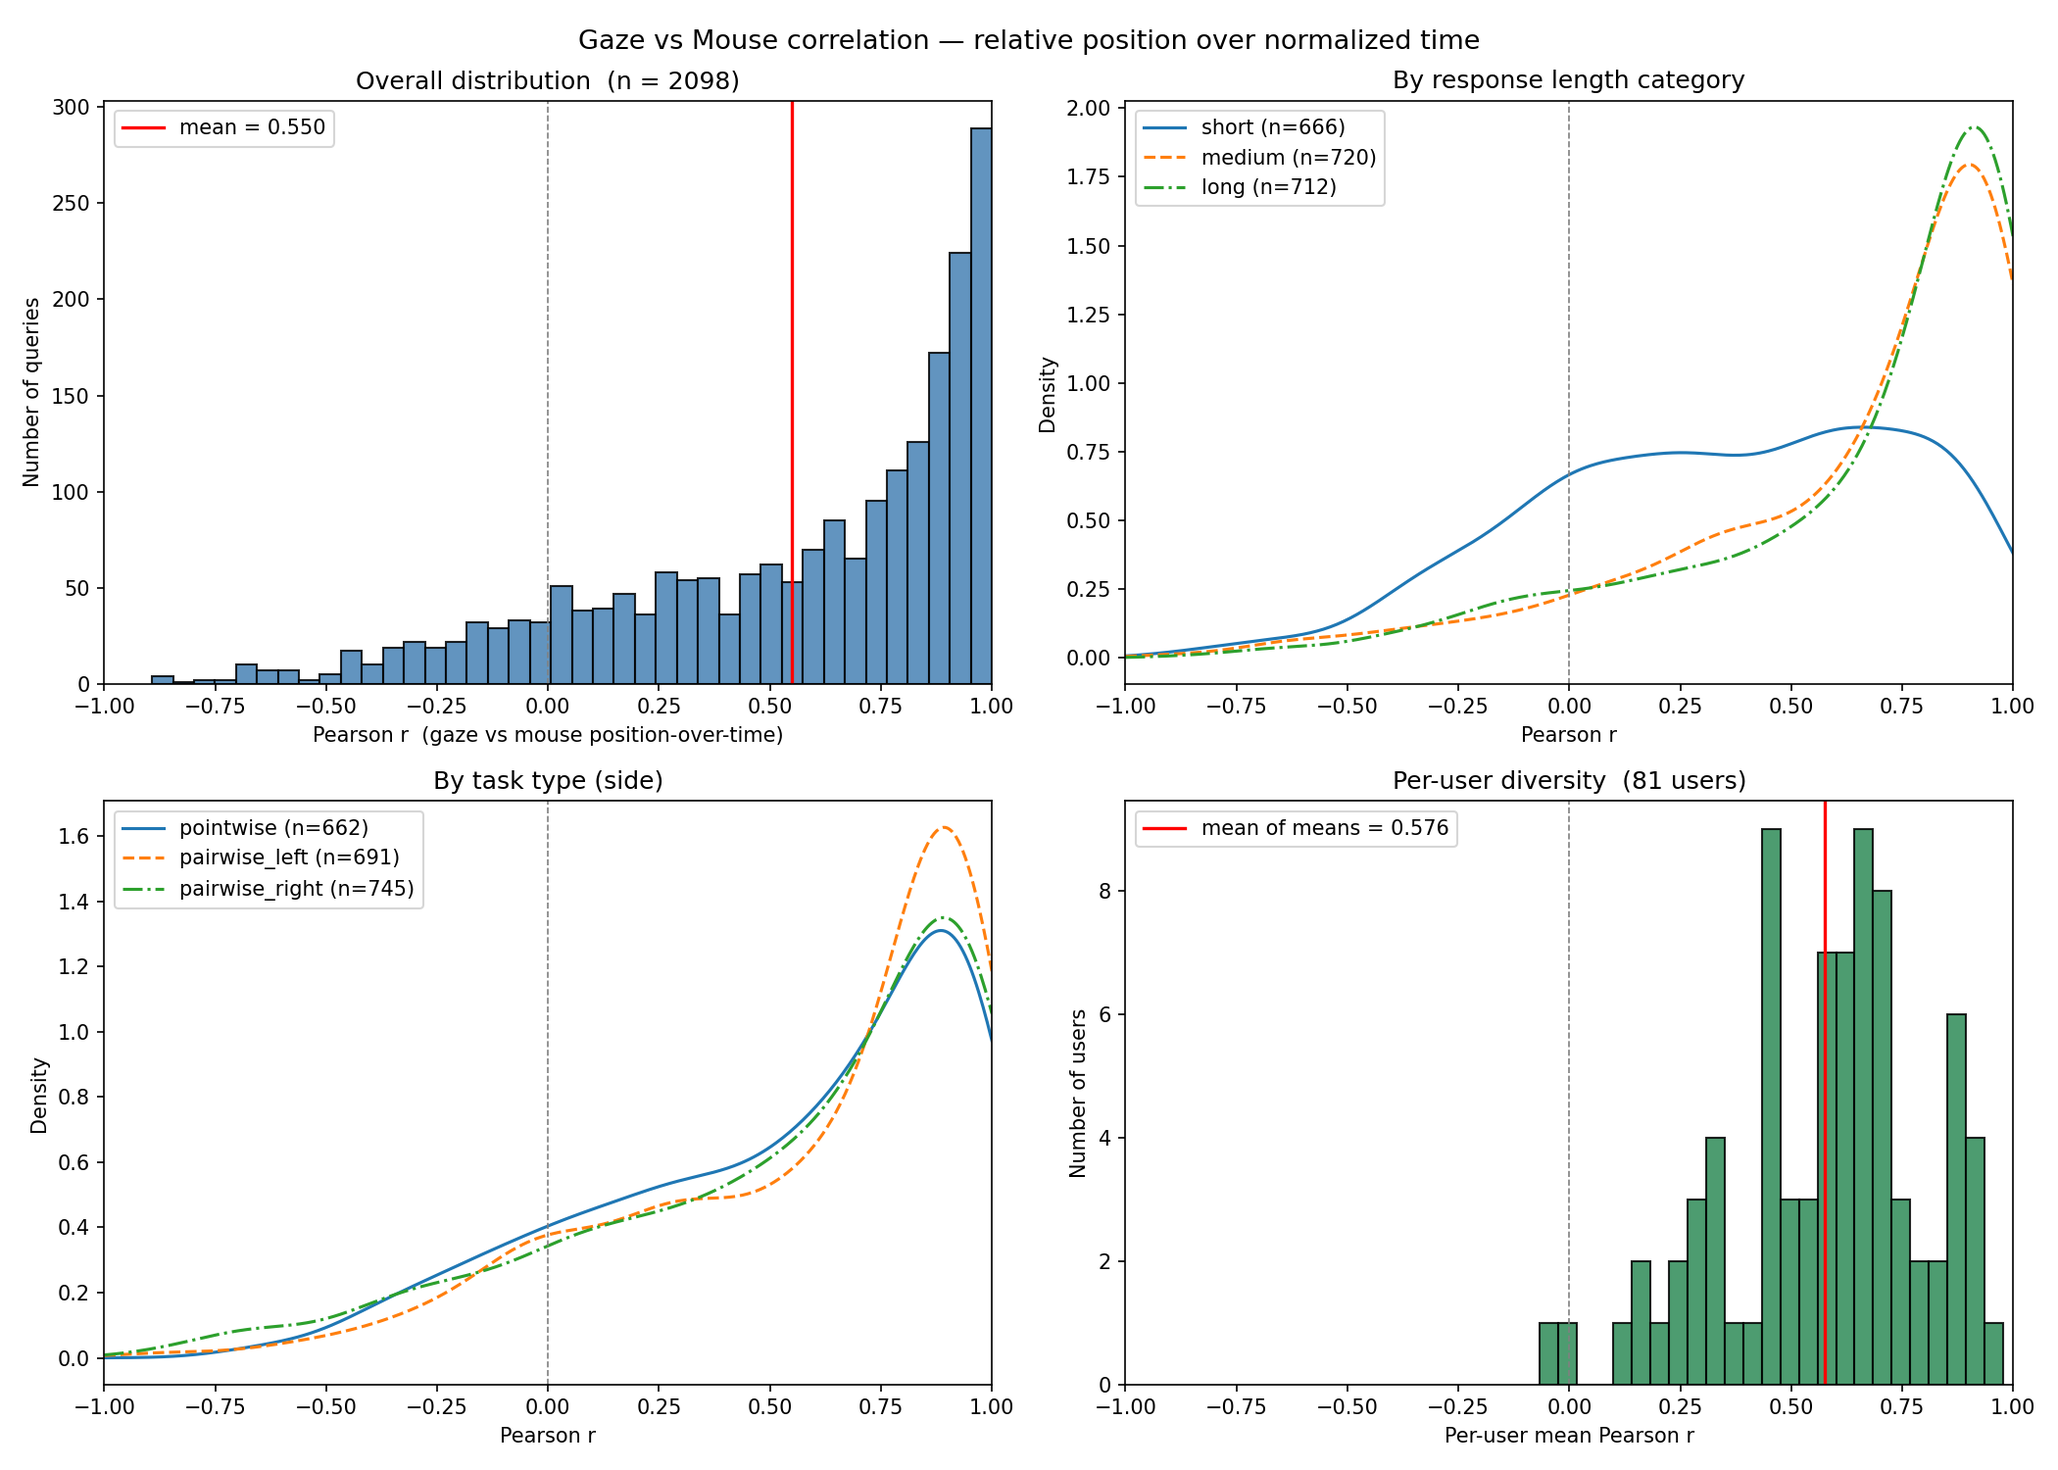
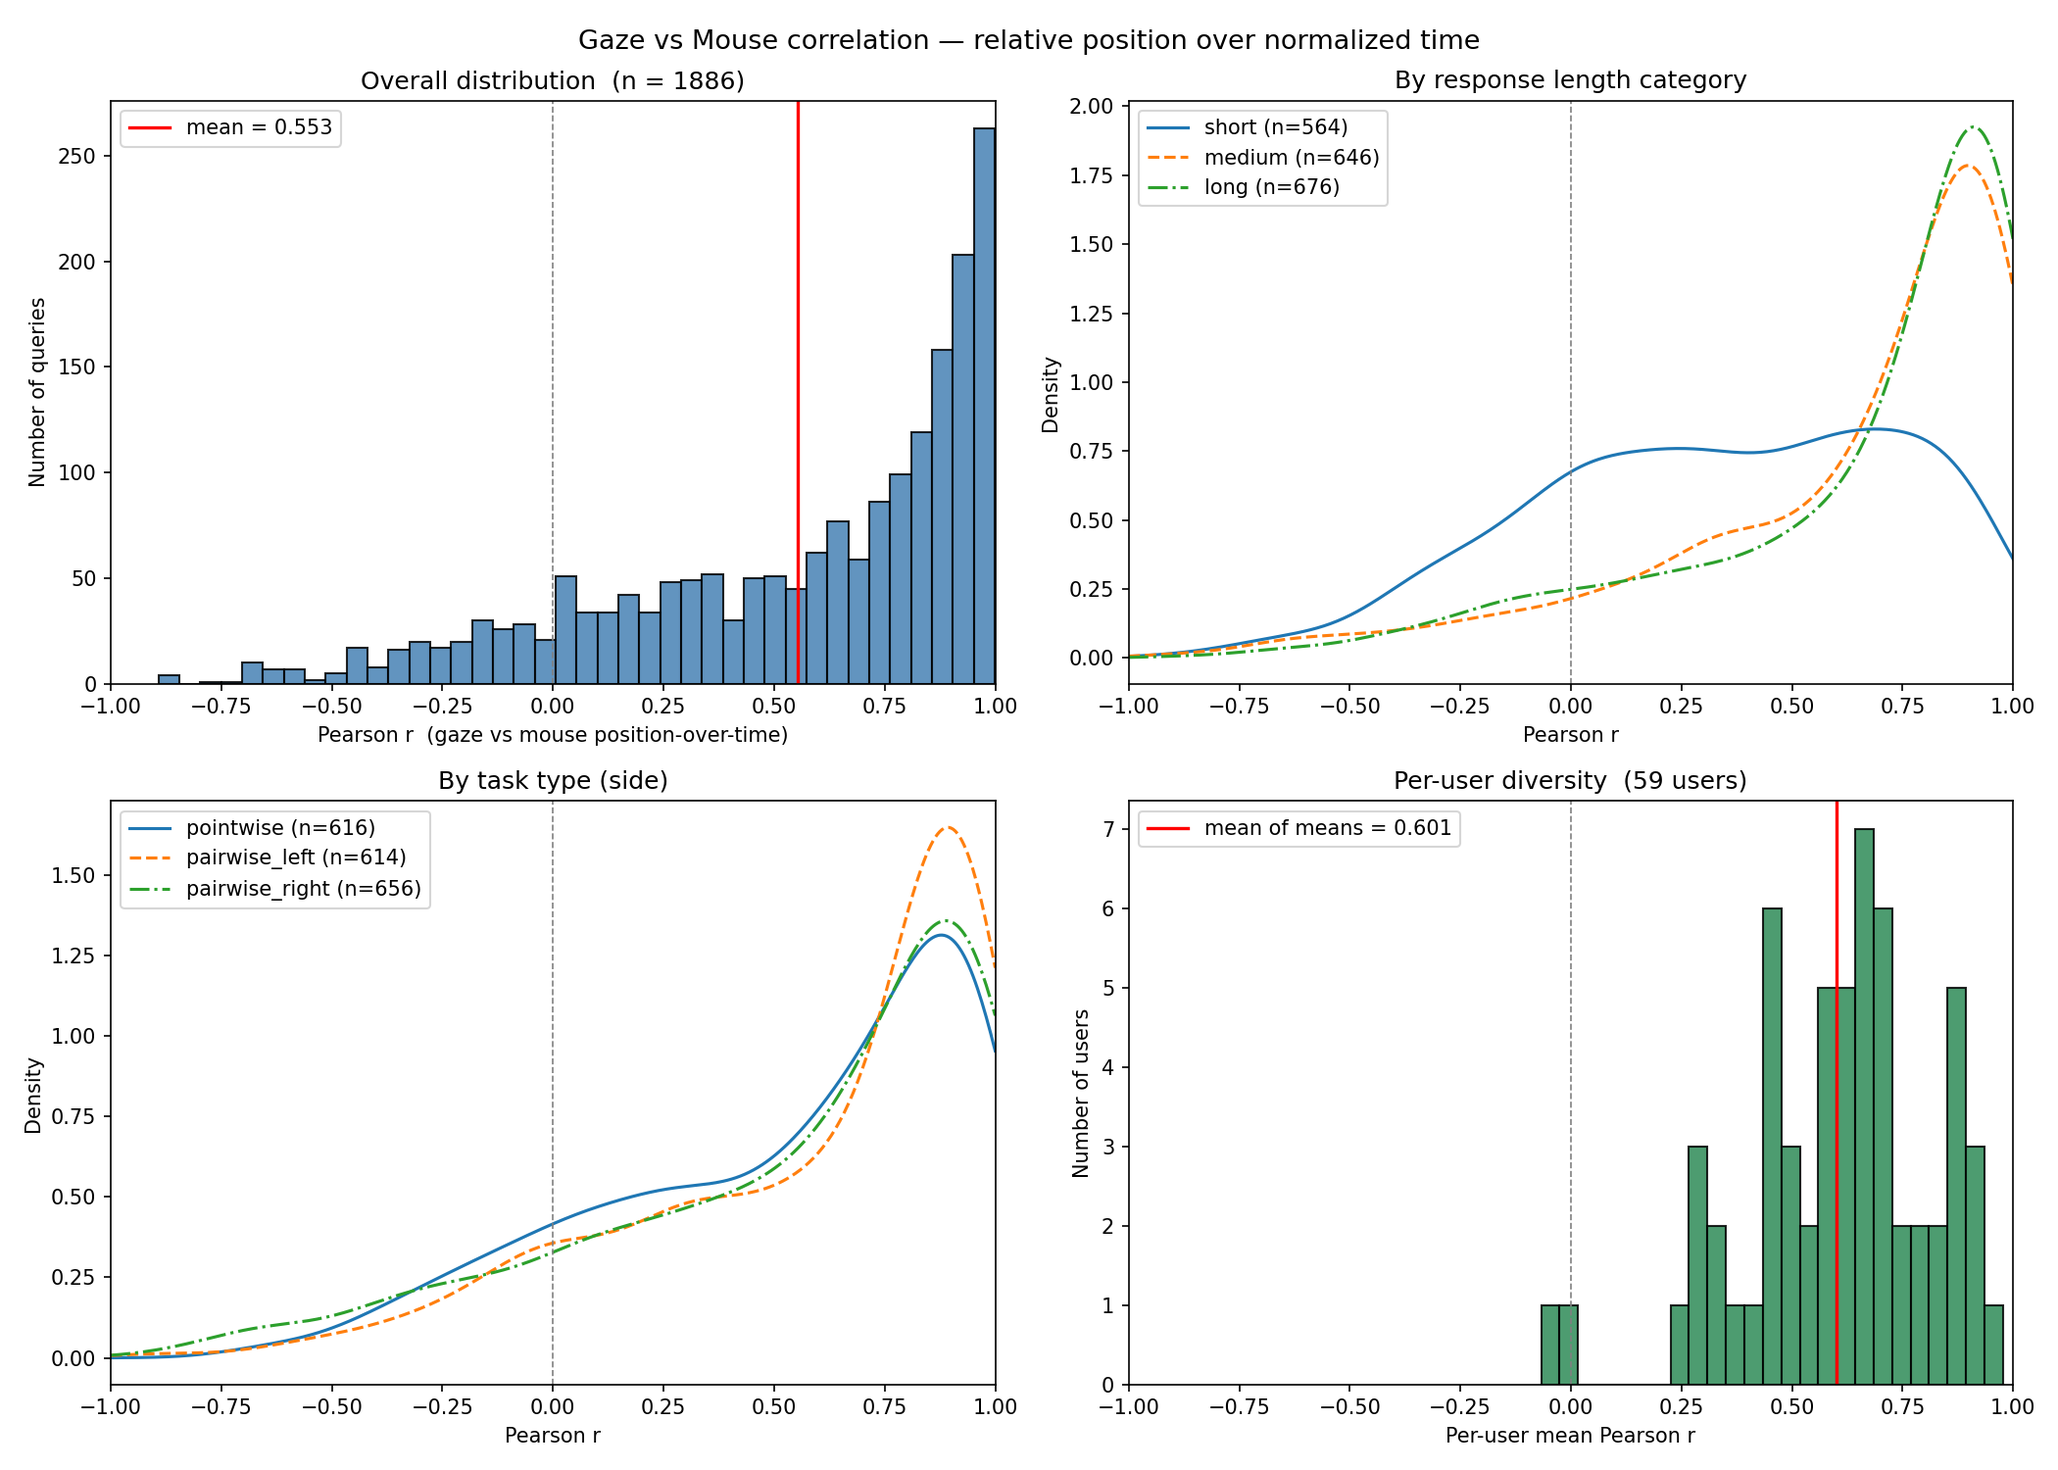
exclude bad workers

diff --git a/src/vis/gaze_mouse_kmeans.py b/src/vis/gaze_mouse_kmeans.py
@@ -18,6 +18,7 @@ import pandas as pd
 import matplotlib.pyplot as plt
 from sklearn.cluster import BisectingKMeans, KMeans
 from scipy.cluster.hierarchy import dendrogram
+from worker_filter import BAD_WORKERS
 
 # ---------------------------------------------------------------------------
 # Hyperparameters
@@ -28,6 +29,8 @@ SIDE      = "left"        # "left" or "right"
 DATA_TYPE = "time_interp"    # "histogram" or "time_interp"
 
 RANDOM_STATE = 42
+EXCLUDE_BAD_WORKERS = True   # set False to include all workers
+_qc = "filtered" if EXCLUDE_BAD_WORKERS else "all"
 N_GROUPS = 2        # number of shape-similarity groups for centroid/sample plots
 MIN_CLUSTER_SAMPLES = 10  # clusters smaller than this are excluded from group plots
 
@@ -39,16 +42,21 @@ N_CLUSTERS = 6 if DATA_TYPE == "histogram" else 10
 # ---------------------------------------------------------------------------
 PROJECT_ROOT = os.path.dirname(os.path.dirname(os.path.dirname(os.path.abspath(__file__))))
 
+_DATA_DIR   = os.path.join(PROJECT_ROOT, "output", "data")
+_KMEANS_DIR = os.path.join(PROJECT_ROOT, "output", "kmeans")
+os.makedirs(_KMEANS_DIR, exist_ok=True)
+
 if DATA_TYPE == "time_interp":
     _modality_stem = "gazing" if MODALITY == "gaze" else "mouse"
-    _INPUT_FILE = f"user_{_modality_stem}_time_interp.csv"
+    _INPUT_FILE = f"user_{_modality_stem}_time_interp_{_qc}.csv"
 else:
-    _INPUT_FILE = "user_gazing_hist.csv" if MODALITY == "gaze" else "user_mouse_hist.csv"
-INPUT_PATH = os.path.join(PROJECT_ROOT, "output", _INPUT_FILE)
+    _INPUT_FILE = f"user_gazing_hist_{_qc}.csv" if MODALITY == "gaze" else f"user_mouse_hist_{_qc}.csv"
+INPUT_PATH = os.path.join(_DATA_DIR, _INPUT_FILE)
 
 SOURCE_LABEL = f"{MODALITY}_pairwise_{SIDE}"
-OUTPUT_PATH        = os.path.join(PROJECT_ROOT, "output", f"{SOURCE_LABEL}_kmeans.png")
-OUTPUT_PATH_SAMPLE = os.path.join(PROJECT_ROOT, "output", f"{SOURCE_LABEL}_kmeans_samples.png")
+_stem = f"{SOURCE_LABEL}_kmeans_{DATA_TYPE}_{_qc}"
+OUTPUT_PATH        = os.path.join(_KMEANS_DIR, f"{_stem}.png")
+OUTPUT_PATH_SAMPLE = os.path.join(_KMEANS_DIR, f"{_stem}_samples.png")
 
 N_BINS = 100
 _COL_PREFIX = "pos" if DATA_TYPE == "time_interp" else "bin"
@@ -59,6 +67,8 @@ BIN_CENTERS = (np.linspace(0, 1, N_BINS + 1)[:-1] + np.linspace(0, 1, N_BINS + 1
 # Load and filter
 # ---------------------------------------------------------------------------
 df = pd.read_csv(INPUT_PATH)
+if EXCLUDE_BAD_WORKERS:
+    df = df[~df["user_id"].isin(BAD_WORKERS)]
 subset = df[df["source"] == SOURCE_LABEL].reset_index(drop=True)
 print(f"Rows for {SOURCE_LABEL}: {len(subset)}")
 
@@ -228,9 +238,7 @@ ax3.set_title(
 )
 ax3.set_ylabel("Cluster inertia at split", fontsize=10)
 
-OUTPUT_PATH_DENDRO = os.path.join(
-    PROJECT_ROOT, "output", f"{SOURCE_LABEL}_kmeans_dendrogram.png"
-)
+OUTPUT_PATH_DENDRO = os.path.join(_KMEANS_DIR, f"{_stem}_dendrogram.png")
 fig3.savefig(OUTPUT_PATH_DENDRO, dpi=150)
 print(f"Saved dendrogram to {OUTPUT_PATH_DENDRO}")
 
@@ -296,9 +304,7 @@ fig4.suptitle(
     f"BisectingKMeans centers by layer — {SOURCE_LABEL}  (k={N_CLUSTERS})",
     fontsize=12,
 )
-OUTPUT_PATH_LAYERS = os.path.join(
-    PROJECT_ROOT, "output", f"{SOURCE_LABEL}_kmeans_layers.png"
-)
+OUTPUT_PATH_LAYERS = os.path.join(_KMEANS_DIR, f"{_stem}_layers.png")
 fig4.savefig(OUTPUT_PATH_LAYERS, dpi=150)
 print(f"Saved layer-by-layer centers to {OUTPUT_PATH_LAYERS}")
 

diff --git a/src/vis/gaze_position_time_interp.py b/src/vis/gaze_position_time_interp.py
@@ -17,19 +17,31 @@ import numpy as np
 import pandas as pd
 import matplotlib.pyplot as plt
 from scipy.interpolate import interp1d
+from worker_filter import BAD_WORKERS
+
+# ---------------------------------------------------------------------------
+# Hyperparameters
+# ---------------------------------------------------------------------------
+EXCLUDE_BAD_WORKERS = True   # set False to include all workers
+
+_qc = "filtered" if EXCLUDE_BAD_WORKERS else "all"
 
 # ---------------------------------------------------------------------------
 # Paths
 # ---------------------------------------------------------------------------
 PROJECT_ROOT = os.path.dirname(os.path.dirname(os.path.dirname(os.path.abspath(__file__))))
 USER_BEHAVIOR_DIR = os.path.join(PROJECT_ROOT, "user_behavior")
-QUERY_LOGS_PATH = os.path.join(PROJECT_ROOT, "query_logs_table.csv")
-GAZE_OUTPUT_PATH  = os.path.join(PROJECT_ROOT, "output", "user_gazing_time_interp.csv")
-MOUSE_OUTPUT_PATH = os.path.join(PROJECT_ROOT, "output", "user_mouse_time_interp.csv")
-GAZE_PLOT_PATH        = os.path.join(PROJECT_ROOT, "output", "gaze_position_time_interp.png")
-MOUSE_PLOT_PATH       = os.path.join(PROJECT_ROOT, "output", "mouse_position_time_interp.png")
-GAZE_LEN_PLOT_PATH    = os.path.join(PROJECT_ROOT, "output", "gaze_length_category_time_interp.png")
-MOUSE_LEN_PLOT_PATH   = os.path.join(PROJECT_ROOT, "output", "mouse_length_category_time_interp.png")
+QUERY_LOGS_PATH   = os.path.join(PROJECT_ROOT, "query_logs_table.csv")
+_DATA_DIR = os.path.join(PROJECT_ROOT, "output", "data")
+_POS_DIR  = os.path.join(PROJECT_ROOT, "output", "position")
+os.makedirs(_DATA_DIR, exist_ok=True)
+os.makedirs(_POS_DIR,  exist_ok=True)
+GAZE_OUTPUT_PATH  = os.path.join(_DATA_DIR, f"user_gazing_time_interp_{_qc}.csv")
+MOUSE_OUTPUT_PATH = os.path.join(_DATA_DIR, f"user_mouse_time_interp_{_qc}.csv")
+GAZE_PLOT_PATH        = os.path.join(_POS_DIR, f"gaze_position_time_interp_{_qc}.png")
+MOUSE_PLOT_PATH       = os.path.join(_POS_DIR, f"mouse_position_time_interp_{_qc}.png")
+GAZE_LEN_PLOT_PATH    = os.path.join(_POS_DIR, f"gaze_length_category_time_interp_{_qc}.png")
+MOUSE_LEN_PLOT_PATH   = os.path.join(_POS_DIR, f"mouse_length_category_time_interp_{_qc}.png")
 
 N_POINTS = 100
 INTERP_TIMES = np.linspace(0, 1, N_POINTS)
@@ -82,6 +94,8 @@ for filename, source, response_col in FILE_CONFIGS:
         parts = filepath.split(os.sep)
         task_id = int(parts[-2])
         user_id = parts[-3]
+        if EXCLUDE_BAD_WORKERS and user_id in BAD_WORKERS:
+            continue
 
         df = pd.read_csv(filepath)
 

diff --git a/src/vis/gaze_position_hist.py b/src/vis/gaze_position_hist.py
@@ -14,19 +14,31 @@ import glob
 import numpy as np
 import pandas as pd
 import matplotlib.pyplot as plt
+from worker_filter import BAD_WORKERS
+
+# ---------------------------------------------------------------------------
+# Hyperparameters
+# ---------------------------------------------------------------------------
+EXCLUDE_BAD_WORKERS = True   # set False to include all workers
+
+_qc = "filtered" if EXCLUDE_BAD_WORKERS else "all"
 
 # ---------------------------------------------------------------------------
 # Paths
 # ---------------------------------------------------------------------------
 PROJECT_ROOT = os.path.dirname(os.path.dirname(os.path.dirname(os.path.abspath(__file__))))
 USER_BEHAVIOR_DIR = os.path.join(PROJECT_ROOT, "user_behavior")
-QUERY_LOGS_PATH = os.path.join(PROJECT_ROOT, "query_logs_table.csv")
-GAZE_OUTPUT_PATH  = os.path.join(PROJECT_ROOT, "output", "user_gazing_hist.csv")
-MOUSE_OUTPUT_PATH = os.path.join(PROJECT_ROOT, "output", "user_mouse_hist.csv")
-GAZE_PLOT_PATH        = os.path.join(PROJECT_ROOT, "output", "gaze_position_hist.png")
-MOUSE_PLOT_PATH       = os.path.join(PROJECT_ROOT, "output", "mouse_position_hist.png")
-GAZE_LEN_PLOT_PATH    = os.path.join(PROJECT_ROOT, "output", "gaze_length_category_hist.png")
-MOUSE_LEN_PLOT_PATH   = os.path.join(PROJECT_ROOT, "output", "mouse_length_category_hist.png")
+QUERY_LOGS_PATH   = os.path.join(PROJECT_ROOT, "query_logs_table.csv")
+_DATA_DIR = os.path.join(PROJECT_ROOT, "output", "data")
+_POS_DIR  = os.path.join(PROJECT_ROOT, "output", "position")
+os.makedirs(_DATA_DIR, exist_ok=True)
+os.makedirs(_POS_DIR,  exist_ok=True)
+GAZE_OUTPUT_PATH  = os.path.join(_DATA_DIR, f"user_gazing_hist_{_qc}.csv")
+MOUSE_OUTPUT_PATH = os.path.join(_DATA_DIR, f"user_mouse_hist_{_qc}.csv")
+GAZE_PLOT_PATH        = os.path.join(_POS_DIR, f"gaze_position_hist_{_qc}.png")
+MOUSE_PLOT_PATH       = os.path.join(_POS_DIR, f"mouse_position_hist_{_qc}.png")
+GAZE_LEN_PLOT_PATH    = os.path.join(_POS_DIR, f"gaze_length_category_hist_{_qc}.png")
+MOUSE_LEN_PLOT_PATH   = os.path.join(_POS_DIR, f"mouse_length_category_hist_{_qc}.png")
 
 N_BINS = 100
 BIN_EDGES = np.linspace(0, 1, N_BINS + 1)
@@ -78,6 +90,8 @@ for filename, source, response_col in FILE_CONFIGS:
         parts = filepath.split(os.sep)
         task_id = int(parts[-2])
         user_id = parts[-3]
+        if EXCLUDE_BAD_WORKERS and user_id in BAD_WORKERS:
+            continue
 
         df = pd.read_csv(filepath)
 

diff --git a/src/vis/gaze_pairwise_medium_heatmap.py b/src/vis/gaze_pairwise_medium_heatmap.py
@@ -17,6 +17,7 @@ Layout
 import os
 import csv
 import random
+from worker_filter import BAD_WORKERS
 import numpy as np
 import matplotlib
 matplotlib.use('Agg')
@@ -27,12 +28,22 @@ from matplotlib.colors import Normalize
 from matplotlib.font_manager import FontProperties
 
 # ---------------------------------------------------------------------------
+# Hyperparameters
+# ---------------------------------------------------------------------------
+RANDOM_SEED = None   # set to an int for reproducible picks
+EXCLUDE_BAD_WORKERS = True   # set False to include all workers
+_qc = "filtered" if EXCLUDE_BAD_WORKERS else "all"
+
+# ---------------------------------------------------------------------------
 # Paths
 # ---------------------------------------------------------------------------
 PROJECT_ROOT    = os.path.dirname(os.path.dirname(os.path.dirname(os.path.abspath(__file__))))
-GAZE_HIST_PATH  = os.path.join(PROJECT_ROOT, "output", "user_gazing_hist.csv")
 QUERY_LOGS_PATH = os.path.join(PROJECT_ROOT, "query_logs_table.csv")
-OUTPUT_PATH     = os.path.join(PROJECT_ROOT, "output", "gaze_pairwise_medium_heatmap.png")
+_DATA_DIR       = os.path.join(PROJECT_ROOT, "output", "data")
+_HEAT_DIR       = os.path.join(PROJECT_ROOT, "output", "heatmap")
+os.makedirs(_HEAT_DIR, exist_ok=True)
+GAZE_HIST_PATH  = os.path.join(_DATA_DIR, f"user_gazing_hist_{_qc}.csv")
+OUTPUT_PATH     = os.path.join(_HEAT_DIR, f"gaze_pairwise_medium_heatmap_{_qc}.png")
 
 N_BINS    = 100
 BIN_COLS  = [f"bin_{i}" for i in range(N_BINS)]
@@ -49,8 +60,6 @@ TXTCLR    = '#6b6b8a'
 BORDERS   = ['#00b4d8', '#4cc9f0']
 X0, Y0    = 0.02, 0.97
 
-RANDOM_SEED = None   # set to an int for reproducible picks
-
 
 # ---------------------------------------------------------------------------
 # Load gaze histogram CSV
@@ -59,6 +68,9 @@ hist_rows: list[dict] = []
 with open(GAZE_HIST_PATH) as f:
     for row in csv.DictReader(f):
         hist_rows.append(row)
+
+if EXCLUDE_BAD_WORKERS:
+    hist_rows = [r for r in hist_rows if r['user_id'] not in BAD_WORKERS]
 
 medium_left  = [r for r in hist_rows
                 if r['length_category'] == 'medium' and r['source'] == 'gaze_pairwise_left']

diff --git a/src/vis/gaze_mouse_correlation.py b/src/vis/gaze_mouse_correlation.py
@@ -17,16 +17,26 @@ import numpy as np
 import pandas as pd
 import matplotlib.pyplot as plt
 from scipy.stats import pearsonr, spearmanr, gaussian_kde
+from worker_filter import BAD_WORKERS
+
+# ---------------------------------------------------------------------------
+# Hyperparameters
+# ---------------------------------------------------------------------------
+EXCLUDE_BAD_WORKERS = True  # set False to include all workers
+_qc = "filtered" if EXCLUDE_BAD_WORKERS else "all"
 
 # ---------------------------------------------------------------------------
 # Paths
 # ---------------------------------------------------------------------------
 PROJECT_ROOT = os.path.dirname(os.path.dirname(os.path.dirname(os.path.abspath(__file__))))
-GAZE_PATH    = os.path.join(PROJECT_ROOT, "output", "user_gazing_time_interp.csv")
-MOUSE_PATH   = os.path.join(PROJECT_ROOT, "output", "user_mouse_time_interp.csv")
-PER_QUERY_OUT = os.path.join(PROJECT_ROOT, "output", "gaze_mouse_correlation_per_query.csv")
-SUMMARY_OUT   = os.path.join(PROJECT_ROOT, "output", "gaze_mouse_correlation_summary.csv")
-PLOT_OUT      = os.path.join(PROJECT_ROOT, "output", "gaze_mouse_correlation.png")
+_DATA_DIR  = os.path.join(PROJECT_ROOT, "output", "data")
+_CORR_DIR  = os.path.join(PROJECT_ROOT, "output", "correlation")
+os.makedirs(_CORR_DIR, exist_ok=True)
+GAZE_PATH     = os.path.join(_DATA_DIR, f"user_gazing_time_interp_{_qc}.csv")
+MOUSE_PATH    = os.path.join(_DATA_DIR, f"user_mouse_time_interp_{_qc}.csv")
+PER_QUERY_OUT = os.path.join(_CORR_DIR, f"gaze_mouse_correlation_per_query_{_qc}.csv")
+SUMMARY_OUT   = os.path.join(_CORR_DIR, f"gaze_mouse_correlation_summary_{_qc}.csv")
+PLOT_OUT      = os.path.join(_CORR_DIR, f"gaze_mouse_correlation_{_qc}.png")
 
 N_POINTS = 100
 POS_COLS = [f"pos_{i}" for i in range(N_POINTS)]
@@ -37,6 +47,9 @@ SIG_THRESHOLD = 0.05
 # ---------------------------------------------------------------------------
 gaze  = pd.read_csv(GAZE_PATH)
 mouse = pd.read_csv(MOUSE_PATH)
+if EXCLUDE_BAD_WORKERS:
+    gaze  = gaze[~gaze["user_id"].isin(BAD_WORKERS)]
+    mouse = mouse[~mouse["user_id"].isin(BAD_WORKERS)]
 
 
 def _strip_modality(src: str) -> str:

diff --git a/src/vis/gaze_pairwise_medium_pm_heatmap.py b/src/vis/gaze_pairwise_medium_pm_heatmap.py
@@ -18,6 +18,7 @@ Layout
 import os
 import csv
 import random
+from worker_filter import BAD_WORKERS
 import tempfile
 import numpy as np
 import polars as pl
@@ -55,6 +56,8 @@ N_TOTAL     = 8000  # total weighted gaze samples per panel
 JITTER_STD  = 1.8   # Gaussian position jitter (char units) for smooth interpolation
 
 RANDOM_SEED = None  # set to int for reproducible pair selection
+EXCLUDE_BAD_WORKERS = True   # set False to include all workers
+_qc = "filtered" if EXCLUDE_BAD_WORKERS else "all"
 
 # ---------------------------------------------------------------------------
 # *** Hyperparameters ***
@@ -69,13 +72,16 @@ assert MODALITY in ('gaze', 'mouse'), \
     f"MODALITY must be 'gaze' or 'mouse', got '{MODALITY}'"
 
 # Derived from MODALITY
-_HIST_FILE  = 'user_gazing_hist.csv' if MODALITY == 'gaze' else 'user_mouse_hist.csv'
-HIST_PATH   = os.path.join(PROJECT_ROOT, "output", _HIST_FILE)
-SRC_LEFT    = f'{MODALITY}_pairwise_left'
-SRC_RIGHT   = f'{MODALITY}_pairwise_right'
+_DATA_DIR  = os.path.join(PROJECT_ROOT, "output", "data")
+_HEAT_DIR  = os.path.join(PROJECT_ROOT, "output", "heatmap")
+os.makedirs(_HEAT_DIR, exist_ok=True)
+_HIST_FILE = f'user_gazing_hist_{_qc}.csv' if MODALITY == 'gaze' else f'user_mouse_hist_{_qc}.csv'
+HIST_PATH  = os.path.join(_DATA_DIR, _HIST_FILE)
+SRC_LEFT   = f'{MODALITY}_pairwise_left'
+SRC_RIGHT  = f'{MODALITY}_pairwise_right'
 
-OUTPUT_PATH = os.path.join(PROJECT_ROOT, "output",
-                           f"{MODALITY}_pairwise_{LENGTH_CATEGORY}_pm_heatmap.png")
+OUTPUT_PATH = os.path.join(_HEAT_DIR,
+                           f"{MODALITY}_pairwise_{LENGTH_CATEGORY}_pm_heatmap_{_qc}.png")
 
 
 # ---------------------------------------------------------------------------
@@ -85,6 +91,9 @@ hist_rows: list[dict] = []
 with open(HIST_PATH) as f:
     for row in csv.DictReader(f):
         hist_rows.append(row)
+
+if EXCLUDE_BAD_WORKERS:
+    hist_rows = [r for r in hist_rows if r['user_id'] not in BAD_WORKERS]
 
 medium_left  = [r for r in hist_rows
                 if r['length_category'] == LENGTH_CATEGORY

diff --git a/src/vis/worker_filter.py b/src/vis/worker_filter.py
@@ -1,0 +1,8 @@
+BAD_WORKERS = {
+    'A1AYL5V5GI9HC1', 'A1CMJNN1QQKLU8', 'A1DLZK8TZJ7ESF', 'A1HQGU5SA9UORE',
+    'A1SMWIBTQ2AESU', 'A1SUMUAP2HD6I1', 'A24UWUL93BCA60', 'A27WZ1GYA5H2JZ',
+    'A2D07SVRO4UFVL', 'A2IXADH4RS1WEZ', 'A2M3DR0V45HNUL', 'A2TG71MJ93AECP',
+    'A2VBD0D63OY36V', 'A34O453D7VWWUK', 'A34ZJFQ9UCP1CR', 'A3AA5G6HENO6VJ',
+    'A3EFKBV6W73WTX', 'A3I8V1SR4ZGLCI', 'A3PJ51GS2AKBO6', 'A3U042Q64BVD6G',
+    'A3UWNTYN8750BT', 'AAGUHBMCOYB8J',  'AM0JKZVOEOTMA',  'AXRWAXX9EXR0Y',
+}
